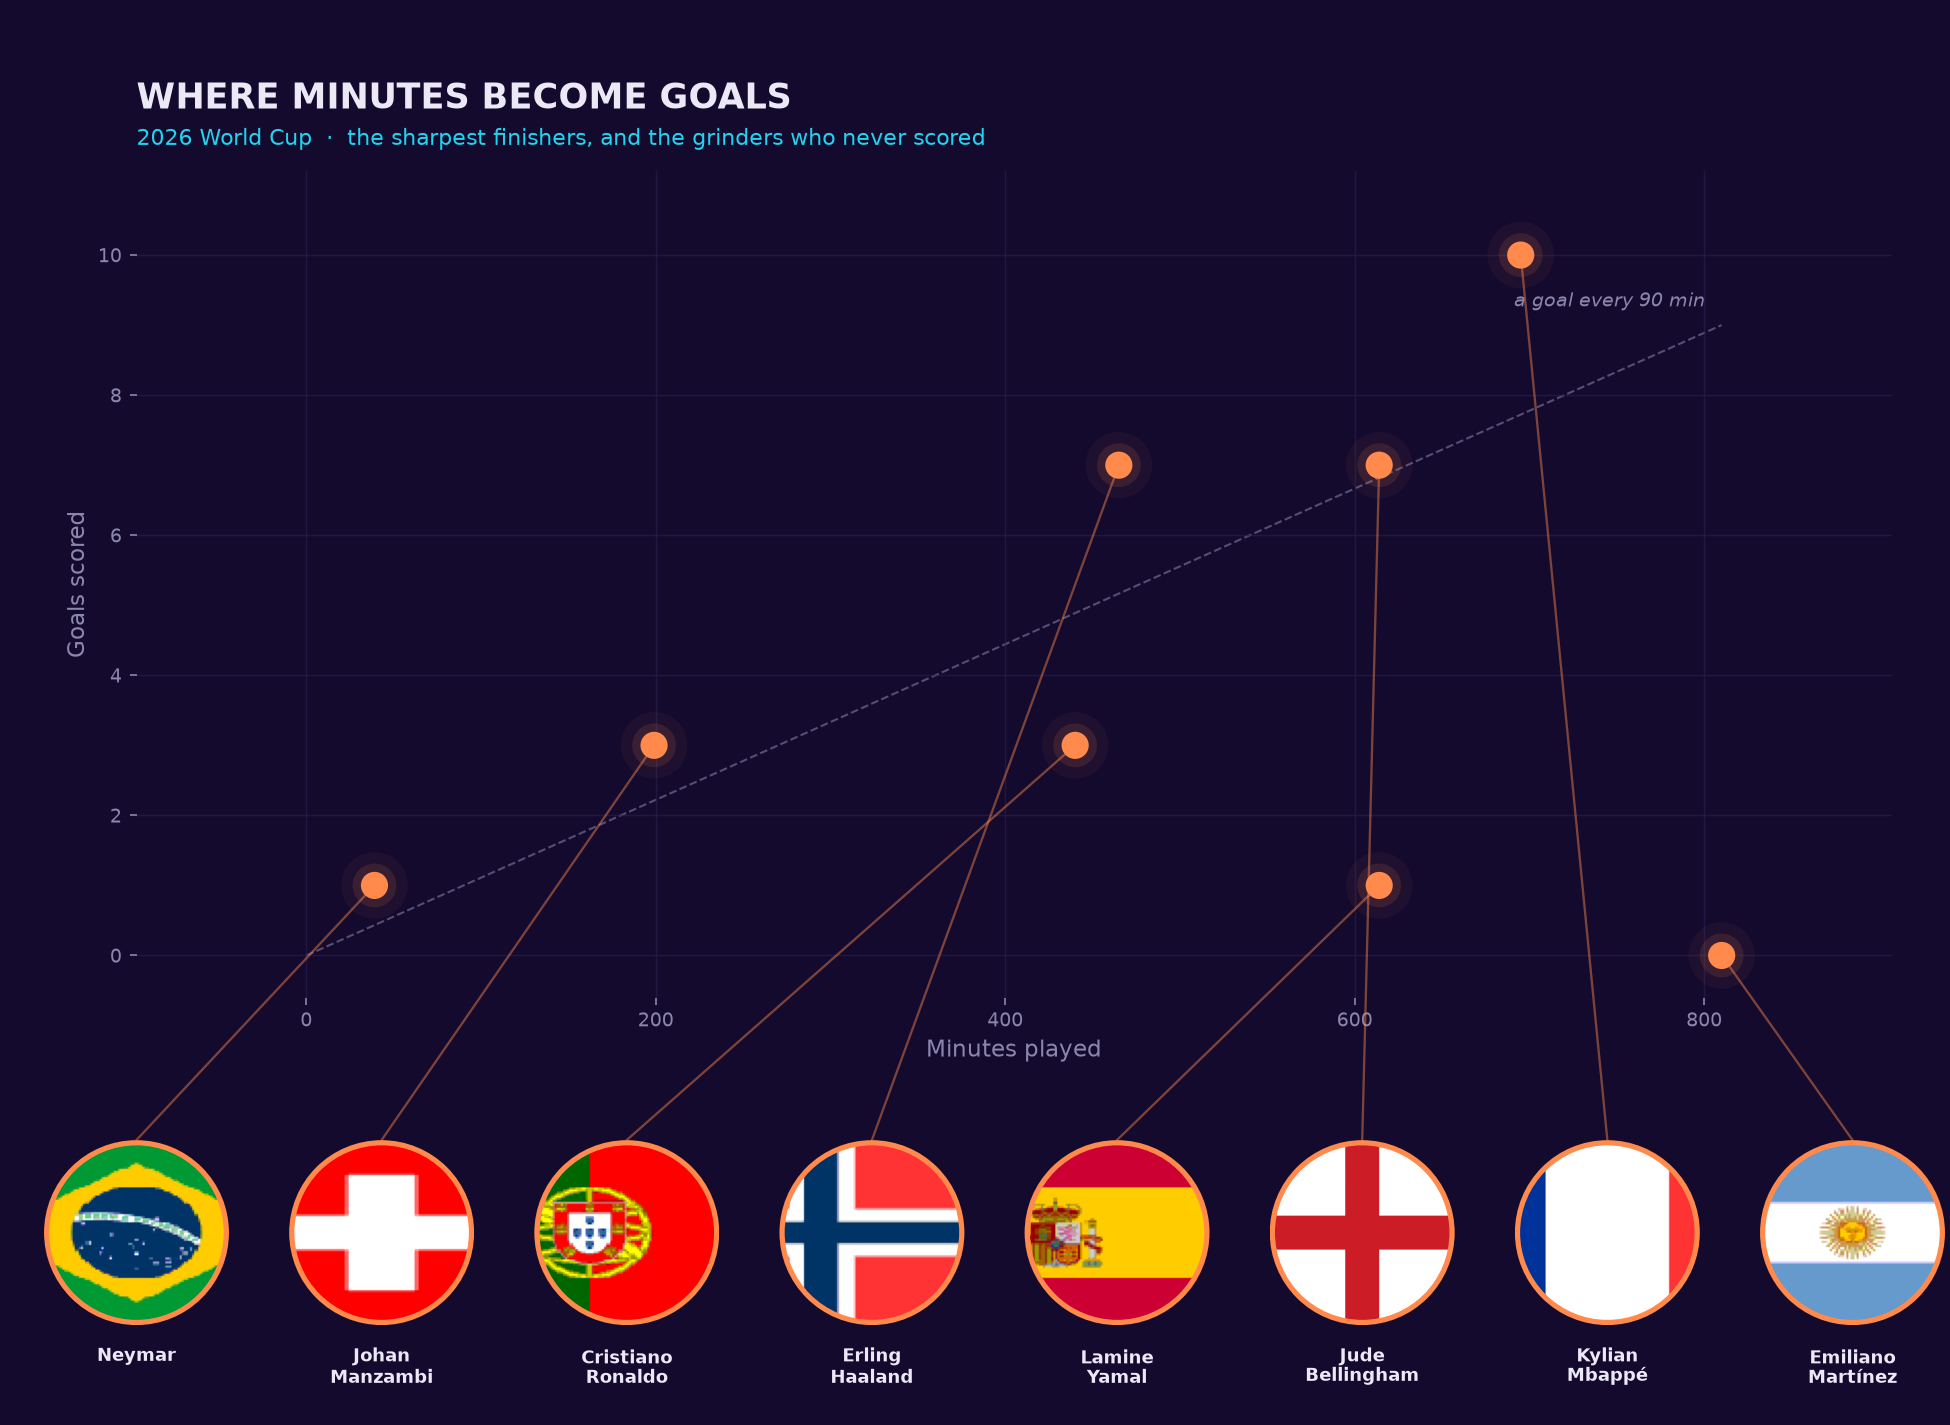
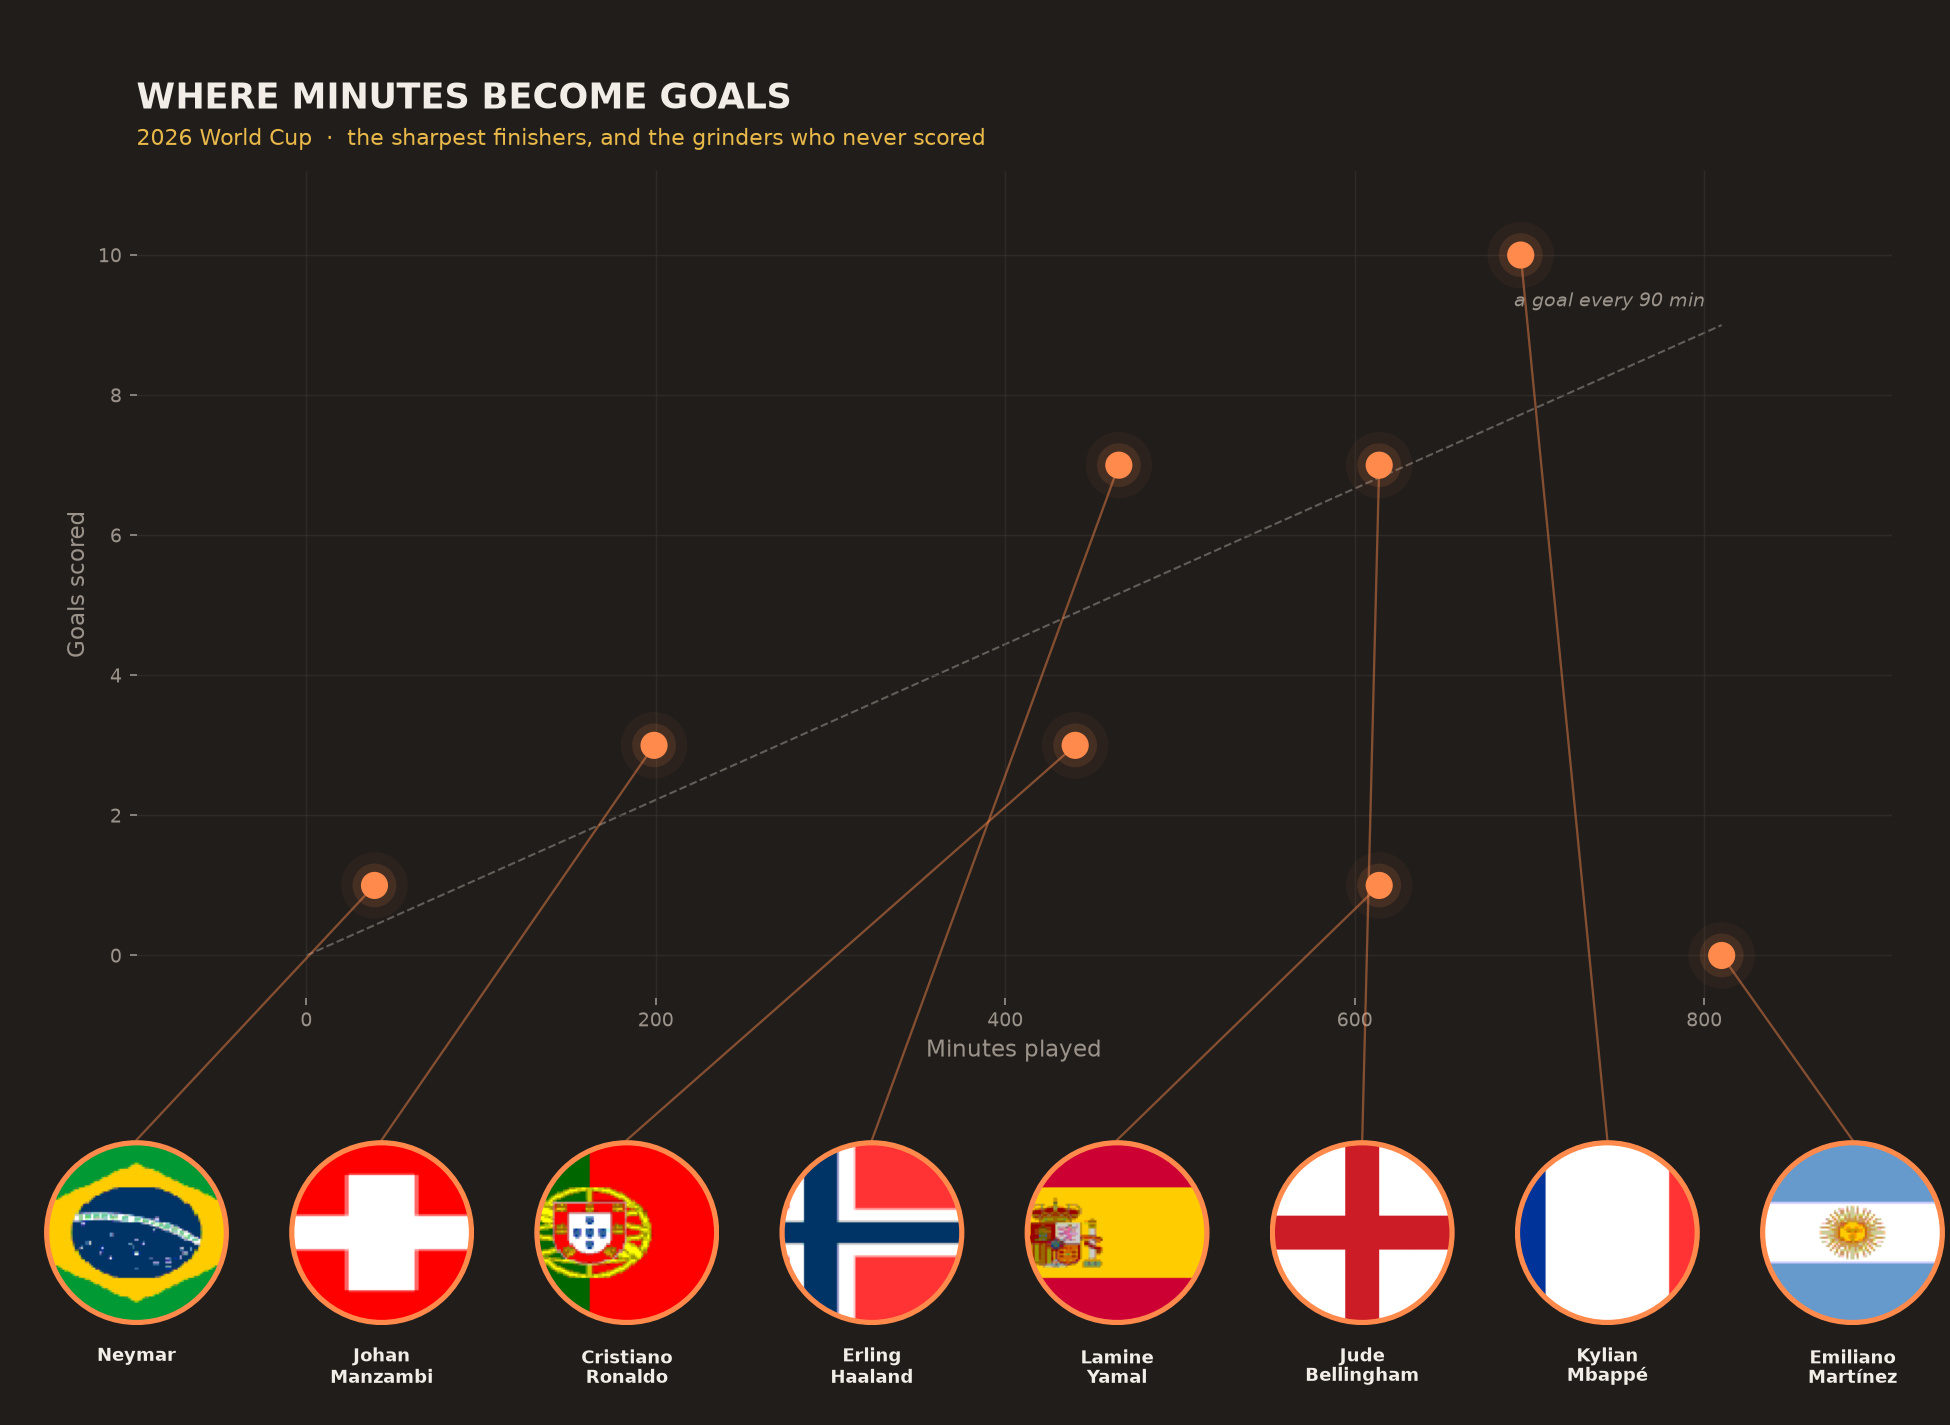
Warm-charcoal theme + simple flag-tipped bar chart for nations
- swap the deep-indigo background for a warm charcoal ground across the
  library; retire the teal/fire ramps for coral + gold accents
- replace the radial 'flames' chart with a simple ranked horizontal bar
  chart of goals by nation, each bar tipped with the country's flag and
  the leaders in gold (less overdesigned)
- add a small flagpy name-alias map so nations like the Netherlands resolve

core.py drops to 190 lines. Updates README.

Claude-Session: https://claude.ai/code/session_0148bkKPynfV42gg72x8rxXR

diff --git a/src/viz_lib/core.py b/src/viz_lib/core.py
@@ -1,11 +1,10 @@
 """Aesthetic 2026 World Cup player-stat visualizations, built on matplotlib.
-Deep-indigo theme; charts take a DataFrame from load(), return an Axes, and
+Warm-charcoal theme; charts take a DataFrame from load(), return an Axes, and
 accept save_path=. Named players wear their country's flag.
 """
 
 from __future__ import annotations
 
-import matplotlib.colors as mcolors
 import matplotlib.pyplot as plt
 import numpy as np
 import pandas as pd
@@ -16,35 +15,28 @@ try:
 except Exception:  # flags degrade gracefully to a plain disc
     _flagpy = None
 
-# ── Palette: coral accent + a warm "firepower" ramp on a deep indigo night ─
-BG, INK, MUTED = "#140a2e", "#ece9f7", "#8b86ad"
-TEAL, CORAL, GRID = "#22d3ee", "#ff8a4c", "#2a2050"
-FIRE = mcolors.LinearSegmentedColormap.from_list(
-    "fire", ["#7b2cbf", "#e0245e", "#ff7b00", "#ffd60a"])
+# ── Palette: coral + gold accents on a warm charcoal ground ────────────────
+BG, INK, MUTED = "#211d1b", "#f2ede6", "#9b938a"
+CORAL, GOLD, GRID = "#ff8a4c", "#e9b949", "#3a342e"
 
 # Players always named on the minutes-vs-goals chart.
 REQUIRED = ["Cristiano Ronaldo", "Kylian Mbappé", "Erling Haaland",
             "Jude Bellingham", "Lamine Yamal", "Neymar"]
 
-
-def _ax(figsize, polar=False):
-    """A styled figure + axes in the shared theme."""
-    fig, ax = plt.subplots(figsize=figsize, subplot_kw={"polar": polar})
-    fig.patch.set_facecolor(BG)
-    ax.set_facecolor(BG)
-    ax.spines[:].set_visible(False)
-    ax.tick_params(colors=MUTED, labelsize=9)
-    return ax
+# flagpy names a few nations differently from the dataset.
+_ALIAS = {"Netherlands": "The Netherlands", "United States": "The United States",
+          "Czech Republic": "The Czech Republic", "Korea Republic": "South Korea",
+          "IR Iran": "Iran"}
 
 
 def _finish(ax, title, subtitle=None, save_path=None):
-    """Editorial headline + teal subtitle, then save/return the axes."""
+    """Editorial headline + gold subtitle, then save/return the axes."""
     ax.set_title(title, color=INK, fontsize=17, fontweight="bold",
                  loc="left", pad=30)
     if subtitle:
         ax.annotate(subtitle, xy=(0, 1), xytext=(0, 10), va="bottom",
                     xycoords="axes fraction", textcoords="offset points",
-                    color=TEAL, fontsize=10.5)
+                    color=GOLD, fontsize=10.5)
     if save_path:
         ax.figure.savefig(save_path, dpi=150, bbox_inches="tight",
                           facecolor=ax.figure.get_facecolor())
@@ -60,7 +52,7 @@ def _flag(country):
     if _flagpy is None:
         return None
     try:
-        img = np.asarray(_flagpy.get_flag_img(country).convert("RGB"))
+        img = np.asarray(_flagpy.get_flag_img(_ALIAS.get(country, country)).convert("RGB"))
     except Exception:
         return None
     h, w = img.shape[:2]
@@ -90,7 +82,7 @@ def _avatar(fig, cx, cy, dia, country):
         im = a.imshow(img, extent=(-1, 1, -1, 1), aspect="auto", zorder=3)
         im.set_clip_path(Circle((0, 0), 0.97, transform=a.transData))
     else:
-        a.add_patch(Circle((0, 0), 0.97, color="#241a4d", zorder=2))
+        a.add_patch(Circle((0, 0), 0.97, color="#332d28", zorder=2))
     a.add_patch(Circle((0, 0), 0.97, fill=False, lw=2.5, ec=CORAL, zorder=5))
 
 
@@ -169,31 +161,30 @@ def minutes_vs_goals(df, max_avatars=8, save_path=None):
 
 
 def nation_firepower(df, n=12, save_path=None):
-    """Radial 'flames': each top-``n`` nation heats from violet to a gold tip.
-
-    Bar length and tip colour both encode goals — the biggest sides burn brightest.
-    """
-    g = df.groupby("Country")["Gls"].sum().sort_values(ascending=False).head(n)
+    """A simple bar chart of goals by the top ``n`` nations, each bar flag-tipped."""
+    g = df.groupby("Country")["Gls"].sum().sort_values().tail(n)
     vals, top = g.values, g.values.max()
-    ax = _ax((9, 9), polar=True)
-    theta = np.linspace(0, 2 * np.pi, len(g), endpoint=False)
-    width = 2 * np.pi / len(g) * 0.7
-    for t, v in zip(theta, vals):  # a radius gradient turns each bar into a flame
-        seg = np.linspace(0, v, 40)
-        ax.bar([t] * 39, np.diff(seg), bottom=seg[:-1], width=width,
-               color=FIRE(0.1 + 0.9 * seg[:-1] / top), zorder=3)
-    for s, a in ((260, 0.45), (90, 1.0)):  # glowing hot tips
-        ax.scatter(theta, vals, s=s, color="#fff8d6", alpha=a,
-                   edgecolors="none", zorder=4)
-    ax.set_theta_offset(np.pi / 2)
-    ax.set_theta_direction(-1)
-    ax.set(xticks=[], yticks=np.arange(5, top + 1, 5), ylim=(0, top * 1.18))
-    ax.set_yticklabels([])
-    ax.spines["polar"].set_visible(False)
-    ax.grid(color=GRID, lw=0.6, alpha=0.35)
-    for t, (name, val) in zip(theta, g.items()):
-        ax.text(t, val + top * 0.09, f"{name}\n{int(val)}", ha="center",
-                va="center", color="#ffd60a" if val == top else INK,
-                fontsize=9, fontweight="bold")
-    return _finish(ax, "NATIONAL FIREPOWER",
-                   "2026 World Cup  ·  total goals scored by nation", save_path)
+    fig = plt.figure(figsize=(10, 8))
+    fig.patch.set_facecolor(BG)
+    ax = fig.add_axes([0.17, 0.08, 0.70, 0.82])
+    ax.set_facecolor(BG)
+    ax.spines[:].set_visible(False)
+    ax.tick_params(colors=MUTED, labelsize=10)
+    y = np.arange(len(g))
+    ax.barh(y, vals, height=0.6, zorder=2,
+            color=[GOLD if v == top else CORAL for v in vals])
+    ax.set_yticks(y)
+    ax.set_yticklabels(g.index, color=INK)
+    ax.set_xticks([])
+    ax.set_xlim(0, top * 1.22)
+    for yi, v, country in zip(y, vals, g.index):
+        fx, fy = fig.transFigure.inverted().transform(
+            ax.transData.transform((v + top * 0.04, yi)))
+        _avatar(fig, fx, fy, 0.052, country)
+        ax.text(v + top * 0.095, yi, int(v), va="center", color=INK,
+                fontsize=10, fontweight="bold")
+    _finish(ax, "NATIONAL FIREPOWER",
+            "2026 World Cup  ·  total goals scored by nation")
+    if save_path:
+        fig.savefig(save_path, dpi=150, facecolor=BG)
+    return ax

diff --git a/README.md b/README.md
@@ -2,10 +2,9 @@
 
 A tiny, aesthetic Python library for visualizing **2026 World Cup player
 statistics** with matplotlib. It's a minimal viable product: one package, two
-bare-bones chart functions, and a single editorial "midnight pitch" look — a
-deep indigo background with a complementary **teal + coral** palette. No
-dashboards, no web app. Point it at the season's CSV and get a poster-quality
-chart.
+bare-bones chart functions, and a single editorial look — a warm charcoal
+background with **coral + gold** accents. No dashboards, no web app. Point it at
+the season's CSV and get a poster-quality chart.
 
 The whole library is **under 200 lines** ([`src/viz_lib/core.py`](src/viz_lib/core.py)).
 
@@ -34,7 +33,7 @@ import viz_lib
 df = viz_lib.load("examples/data/wcplayerstatistics2026.csv")
 
 viz_lib.minutes_vs_goals(df)     # who turned minutes into goals
-viz_lib.nation_firepower(df)     # goals by nation, as a radial chart
+viz_lib.nation_firepower(df)     # goals by nation, as a flag-tipped bar chart
 plt.show()
 
 # every chart accepts save_path= to write a PNG straight to disk
@@ -66,10 +65,10 @@ clutter — are split between the **most goals in the fewest minutes** and the
 
 ### 🔥 National Firepower — `nation_firepower(df, n=12)`
 
-A radial chart where each nation is a **flame**: the bar heats along its length
-from a violet base to a gold-hot tip, topped with a glowing bead. Bar length
-*and* tip colour both encode goals, so the biggest attacking sides literally
-burn the brightest (France and England, tied at 20).
+A clean horizontal bar chart of total goals by the top `n` nations, ranked
+highest-first. Each bar is **tipped with that country's flag** (the one small
+flourish), values sit at the end, and the leaders are picked out in gold
+(France and England, tied at 20).
 
 ![National Firepower](examples/charts/nation_firepower.png)
 
@@ -79,20 +78,19 @@ burn the brightest (France and England, tied at 20).
 | --- | --- |
 | `load(path)` | Read a stats CSV into a tidy DataFrame with a clean `Country` column |
 | `minutes_vs_goals(df, max_avatars=8)` | Minutes-vs-goals scatter of a curated cast, with flag medallions |
-| `nation_firepower(df, n=12)` | Radial bar chart of goals by the top `n` nations |
+| `nation_firepower(df, n=12)` | Horizontal bar chart of goals by the top `n` nations, flag-tipped |
 
 Both chart functions return a matplotlib `Axes` (so you can keep tweaking) and
 accept `save_path=` to write the figure to disk.
 
 ## Design notes
 
-- **A shared deep-indigo stage.** Both charts sit on the same `#140a2e`
-  background, so they read as one set even though each has its own accent — the
-  scatter glows coral, the radial chart burns through a violet→gold fire ramp.
-- **Colour has one job per chart.** On the scatter, coral marks the players
-  against a calm ground; on the radial chart, a single perceptual fire ramp
-  encodes magnitude (never a rainbow), so hotter always means more goals.
-- **Neon glow, honestly.** The bloom on highlighted marks is drawn by stacking
+- **A shared warm-charcoal stage.** Both charts sit on the same `#211d1b`
+  background with coral bars/marks and gold reserved for the standouts, so they
+  read as one set.
+- **Colour has one job.** Coral carries the data; gold marks the leaders (the
+  top scorers, the top nations) — never a rainbow.
+- **Honest marks.** The bloom on the scatter's points is drawn by stacking
   translucent copies, not faked with a second axis. Two variables on different
   scales (minutes vs goals) are shown as a scatter, never a dual-axis chart.
 - **Flags, offline.** Country flags come from the bundled [`flagpy`](https://pypi.org/project/flagpy/)
